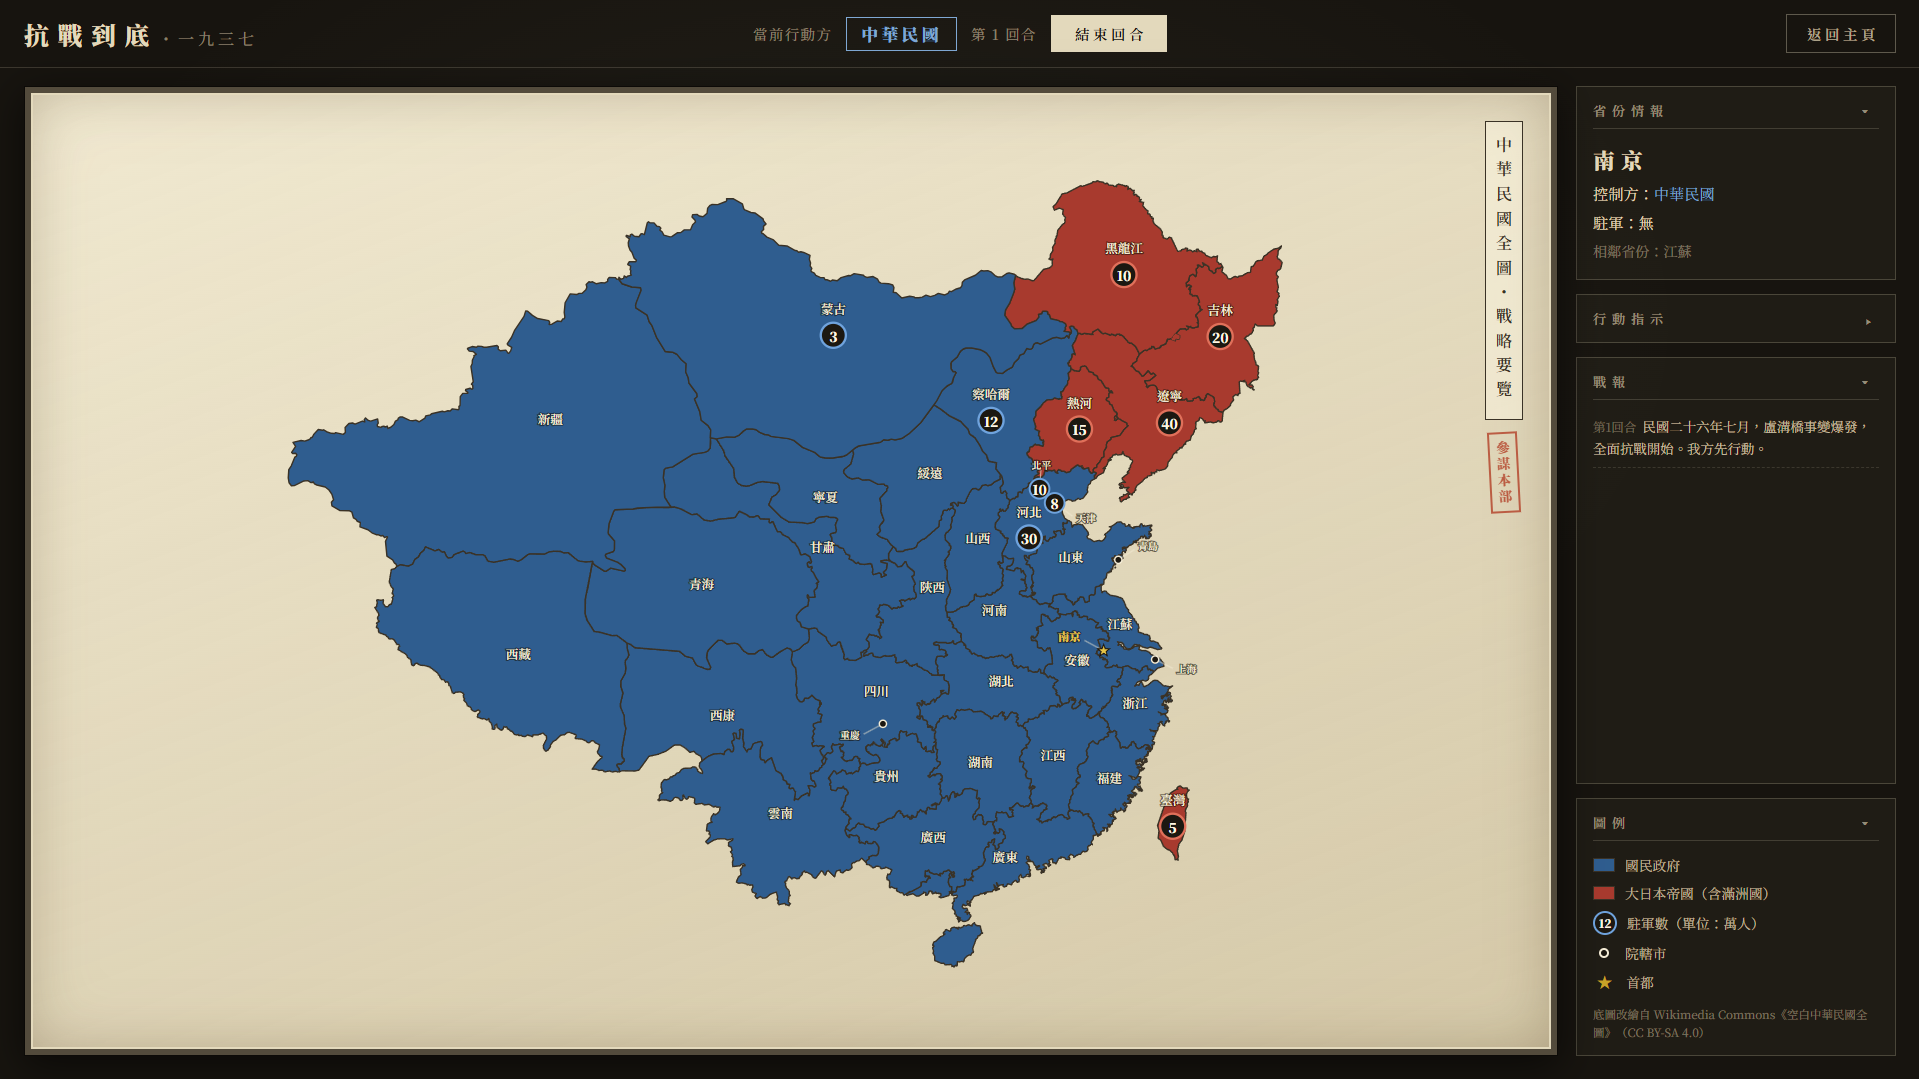
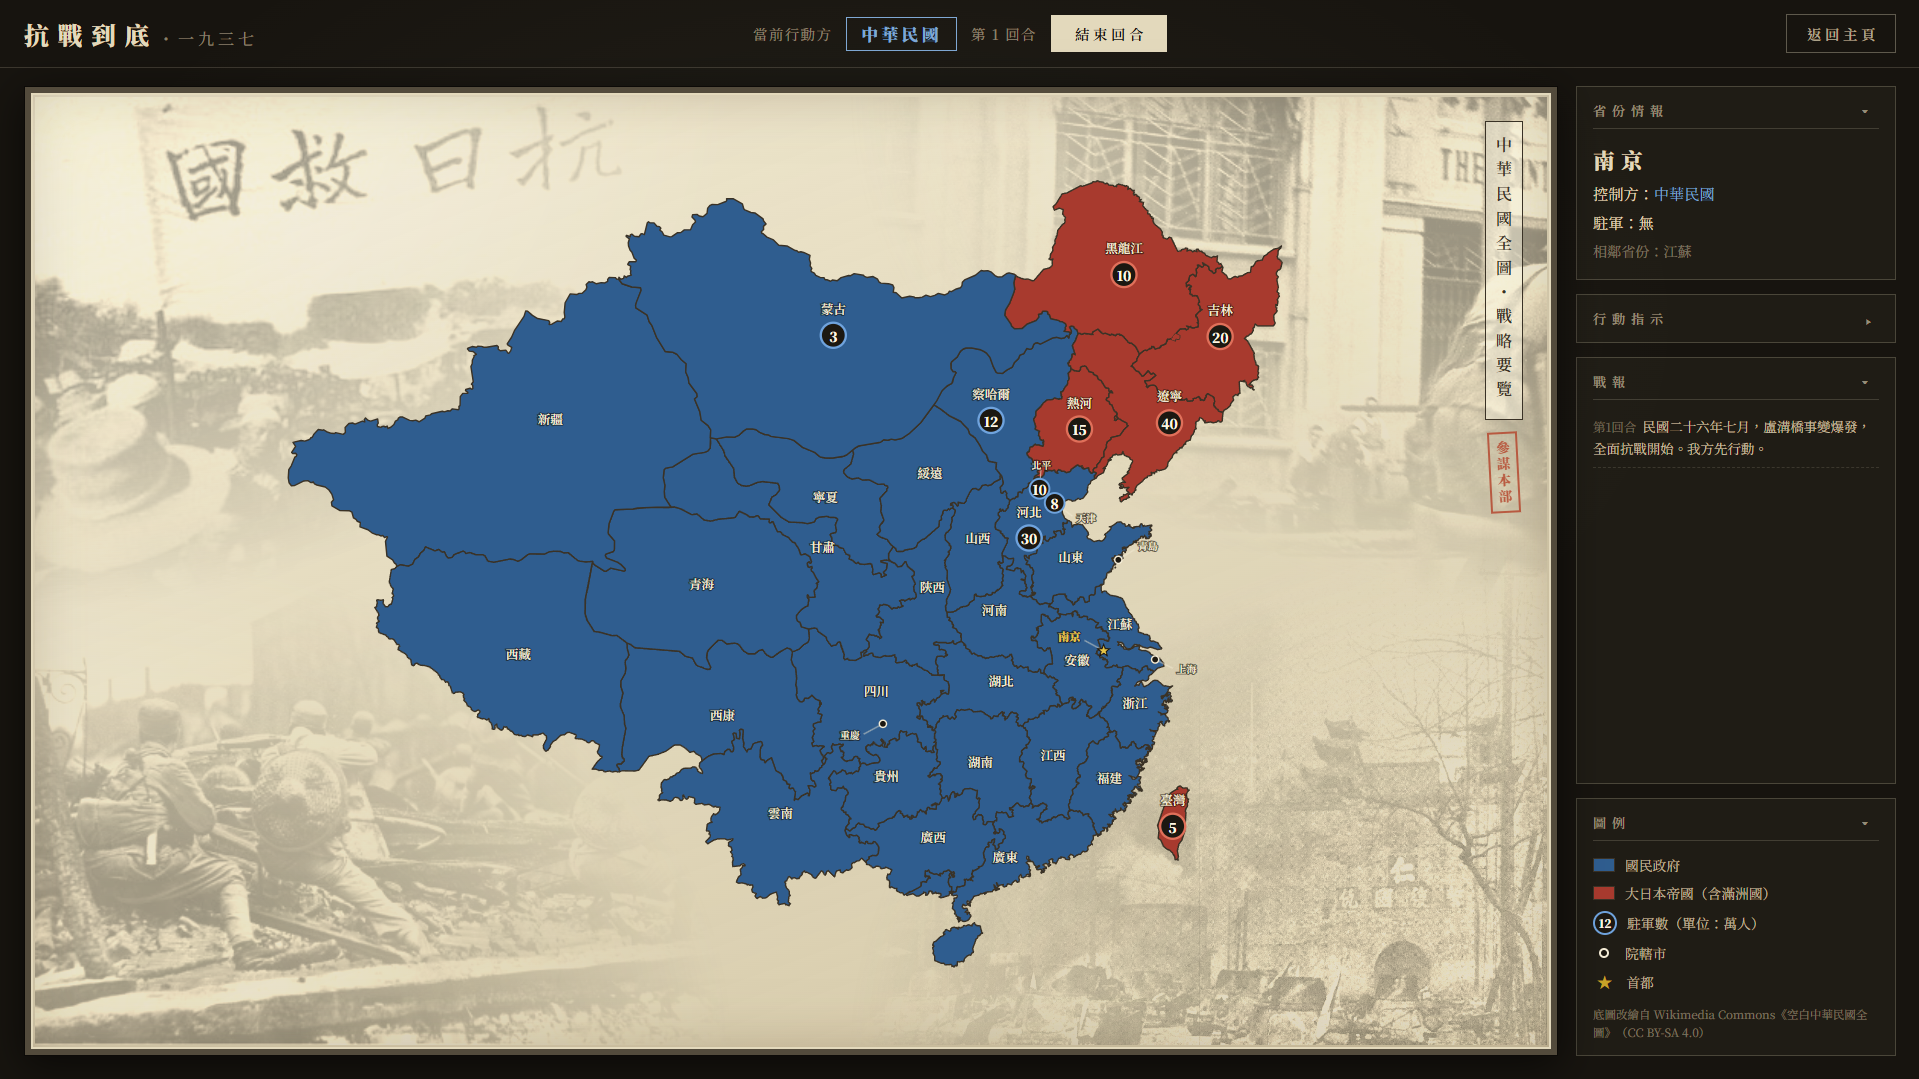
feat(resistance): 地圖加入海報式史料照片背景
- 新增四張史料照片（assets/），以 multiply 混色壓入圖紙四角並向圖心漸隱
- 統一陣營 class 為 jap，修正省份情報「大日本帝國」無顏色的問題
- 更新 README 專案結構與截圖說明

diff --git a/src/resistance/resistance.css b/src/resistance/resistance.css
@@ -81,7 +81,7 @@ body {
 }
 
 .turn-faction.roc { color: #7fa8d4; }
-.turn-faction.japan { color: #d97b6b; }
+.turn-faction.jap { color: #d97b6b; }
 
 .end-turn-btn {
   font-family: inherit;
@@ -149,7 +149,56 @@ body {
   min-height: 520px;
 }
 
-.map-container { width: 100%; max-width: 1080px; }
+/* ---------- 海報式史料照片層 ----------
+   四張老照片以「油墨印刷」方式壓進圖紙：
+   去色偏褐 + multiply 混色 + 往圖心漸隱，避免干擾地圖判讀 */
+.poster-backdrop {
+  position: absolute;
+  inset: 10px; /* 收在圖紙雙框線之內 */
+  overflow: hidden;
+  pointer-events: none;
+  z-index: 0;
+}
+
+.poster-photo {
+  position: absolute;
+  width: 48%;
+  height: 56%;
+  object-fit: cover;
+  filter: grayscale(1) sepia(0.6) contrast(1.08) brightness(1.1);
+  mix-blend-mode: multiply;
+  opacity: 0.32;
+}
+
+.photo-charge {
+  top: 0;
+  right: 0;
+  -webkit-mask-image: radial-gradient(130% 130% at 100% 0%, #000 28%, transparent 74%);
+  mask-image: radial-gradient(130% 130% at 100% 0%, #000 28%, transparent 74%);
+}
+
+.photo-rally {
+  top: 0;
+  left: 0;
+  -webkit-mask-image: radial-gradient(130% 130% at 0% 0%, #000 28%, transparent 74%);
+  mask-image: radial-gradient(130% 130% at 0% 0%, #000 28%, transparent 74%);
+}
+
+.photo-rubble {
+  bottom: 0;
+  left: 0;
+  -webkit-mask-image: radial-gradient(130% 130% at 0% 100%, #000 28%, transparent 74%);
+  mask-image: radial-gradient(130% 130% at 0% 100%, #000 28%, transparent 74%);
+}
+
+.photo-gate {
+  bottom: 0;
+  right: 0;
+  -webkit-mask-image: radial-gradient(130% 130% at 100% 100%, #000 28%, transparent 74%);
+  mask-image: radial-gradient(130% 130% at 100% 100%, #000 28%, transparent 74%);
+}
+
+.map-container { width: 100%; max-width: 1080px; position: relative; z-index: 1; }
 .map-container svg { width: 100%; height: auto; display: block; }
 
 /* 直排圖名與朱印（本頁的簽名元素） */
@@ -197,7 +246,7 @@ body {
 }
 
 .province.roc { fill: var(--roc); }
-.province.japan { fill: var(--japan); }
+.province.jap { fill: var(--japan); }
 
 .province:hover { filter: brightness(1.18); }
 
@@ -239,7 +288,7 @@ body {
 }
 
 .army-badge.roc circle { stroke: #6fa3dd; }
-.army-badge.japan circle { stroke: #e0705a; }
+.army-badge.jap circle { stroke: #e0705a; }
 
 .army-badge text {
   fill: #fff8e4;
@@ -311,7 +360,7 @@ details.panel-block:not([open]) > .panel-heading {
 }
 
 .province-info .info-owner.roc { color: #7fa8d4; }
-.province-info .info-owner.japan { color: #d97b6b; }
+.province-info .info-owner.jap { color: #d97b6b; }
 
 .muted { color: rgba(227, 217, 188, 0.45); font-size: 0.88rem; }
 
@@ -380,7 +429,7 @@ details.panel-block:not([open]) > .panel-heading {
 }
 
 .swatch-roc { background: var(--roc); }
-.swatch-japan { background: var(--japan); }
+.swatch-jap { background: var(--japan); }
 
 .badge-demo {
   width: 24px;

diff --git a/src/resistance/resistance.html b/src/resistance/resistance.html
@@ -32,6 +32,13 @@
 	<main class="layout">
     <!-- 地圖圖紙 -->
     <section class="map-sheet">
+      <!-- 海報式史料照片層：墊在地圖之後 -->
+      <div class="poster-backdrop" aria-hidden="true">
+        <img class="poster-photo photo-charge" src="./assets/shanghai-street-charge.jpg" alt="" />
+        <img class="poster-photo photo-rally" src="./assets/resist-japan-rally.jpg" alt="" />
+        <img class="poster-photo photo-rubble" src="./assets/rubble-defense.webp" alt="" />
+        <img class="poster-photo photo-gate" src="./assets/nanjing-gate-of-china.jpg" alt="" />
+      </div>
       <div id="map-container" class="map-container">
         <!-- SVG 地圖由 main.ts 動態生成 -->
       </div>
@@ -68,7 +75,7 @@
       <details class="panel-block legend" open>
         <summary class="panel-heading">圖例</summary>
         <div class="legend-row"><span class="swatch swatch-roc"></span>國民政府</div>
-        <div class="legend-row"><span class="swatch swatch-japan"></span>大日本帝國（含滿洲國）</div>
+        <div class="legend-row"><span class="swatch swatch-jap"></span>大日本帝國（含滿洲國）</div>
         <div class="legend-row"><span class="badge-demo">12</span>駐軍數（單位：萬人）</div>
         <div class="legend-row"><span class="dot-demo"></span>院轄市</div>
         <div class="legend-row"><span class="star-demo">★</span>首都</div>

diff --git a/src/resistance/resistance.js b/src/resistance/resistance.js
@@ -386,7 +386,7 @@ class MapView {
         for (const p of game.provinces.values()) {
             const el = this.els.get(p.id);
             el.path.classList.toggle("roc", p.owner === "roc");
-            el.path.classList.toggle("japan", p.owner === "jap");
+            el.path.classList.toggle("jap", p.owner === "jap");
             el.path.classList.toggle("selected", p.id === game.selectedId);
             el.path.classList.toggle("acted", p.acted && p.owner === game.currNation && p.army > 0);
             if (el.label)
@@ -395,7 +395,7 @@ class MapView {
             if (p.army > 0) {
                 el.badge.style.display = "";
                 el.badge.classList.toggle("roc", p.owner === "roc");
-                el.badge.classList.toggle("japan", p.owner === "jap");
+                el.badge.classList.toggle("jap", p.owner === "jap");
                 el.badgeText.textContent = String(p.army);
             }
             else {
@@ -404,7 +404,7 @@ class MapView {
             // 城市節點狀態
             if (el.marker) {
                 el.marker.classList.toggle("roc", p.owner === "roc");
-                el.marker.classList.toggle("japan", p.owner === "jap");
+                el.marker.classList.toggle("jap", p.owner === "jap");
                 el.marker.classList.toggle("selected", p.id === game.selectedId);
                 el.marker.classList.toggle("targetable", targets.has(p.id));
                 el.marker.classList.toggle("has-army", p.army > 0);
@@ -415,7 +415,7 @@ class MapView {
         for (const { el, host } of this.dormantEls) {
             const owner = game.get(host).owner;
             el.classList.toggle("roc", owner === "roc");
-            el.classList.toggle("japan", owner === "jap");
+            el.classList.toggle("jap", owner === "jap");
         }
         // 選取金框
         if (game.selectedId) {

diff --git a/src/resistance/resistance.ts b/src/resistance/resistance.ts
@@ -517,7 +517,7 @@ class MapView {
     for (const p of game.provinces.values()) {
       const el = this.els.get(p.id)!;
       el.path.classList.toggle("roc", p.owner === "roc");
-      el.path.classList.toggle("japan", p.owner === "jap");
+      el.path.classList.toggle("jap", p.owner === "jap");
       el.path.classList.toggle("selected", p.id === game.selectedId);
       el.path.classList.toggle(
         "acted",
@@ -530,7 +530,7 @@ class MapView {
       if (p.army > 0) {
         el.badge.style.display = "";
         el.badge.classList.toggle("roc", p.owner === "roc");
-        el.badge.classList.toggle("japan", p.owner === "jap");
+        el.badge.classList.toggle("jap", p.owner === "jap");
         el.badgeText.textContent = String(p.army);
       } else {
         el.badge.style.display = "none";
@@ -539,7 +539,7 @@ class MapView {
       // 城市節點狀態
       if (el.marker) {
         el.marker.classList.toggle("roc", p.owner === "roc");
-        el.marker.classList.toggle("japan", p.owner === "jap");
+        el.marker.classList.toggle("jap", p.owner === "jap");
         el.marker.classList.toggle("selected", p.id === game.selectedId);
         el.marker.classList.toggle("targetable", targets.has(p.id));
         el.marker.classList.toggle("has-army", p.army > 0);
@@ -551,7 +551,7 @@ class MapView {
     for (const { el, host } of this.dormantEls) {
       const owner = game.get(host).owner;
       el.classList.toggle("roc", owner === "roc");
-      el.classList.toggle("japan", owner === "jap");
+      el.classList.toggle("jap", owner === "jap");
     }
 
     // 選取金框

diff --git a/README.md b/README.md
@@ -9,8 +9,8 @@
   <img src="./docs/threebody.png" width="48%" alt="三體模擬器">
 </p>
 <p align="center">
-  <img src="./docs/poem.png.png" width="48%" alt="主頁">
-  <img src="./docs/resistance.png" width="48%" alt="三體模擬器">
+  <img src="./docs/poem.png" width="48%" alt="詩詞推薦頁">
+  <img src="./docs/resistance.png" width="48%" alt="抗戰到底・一九三七">
 </p>
 
 ## 專案結構
@@ -39,7 +39,8 @@ StarleWeb/
         ├── resistance.html
         ├── resistance.ts
         ├── mapdata.ts
-        └── resistance.css
+        ├── resistance.css
+        └── assets/         ← 背景史料照片
 ```
 
 ## 外部依賴